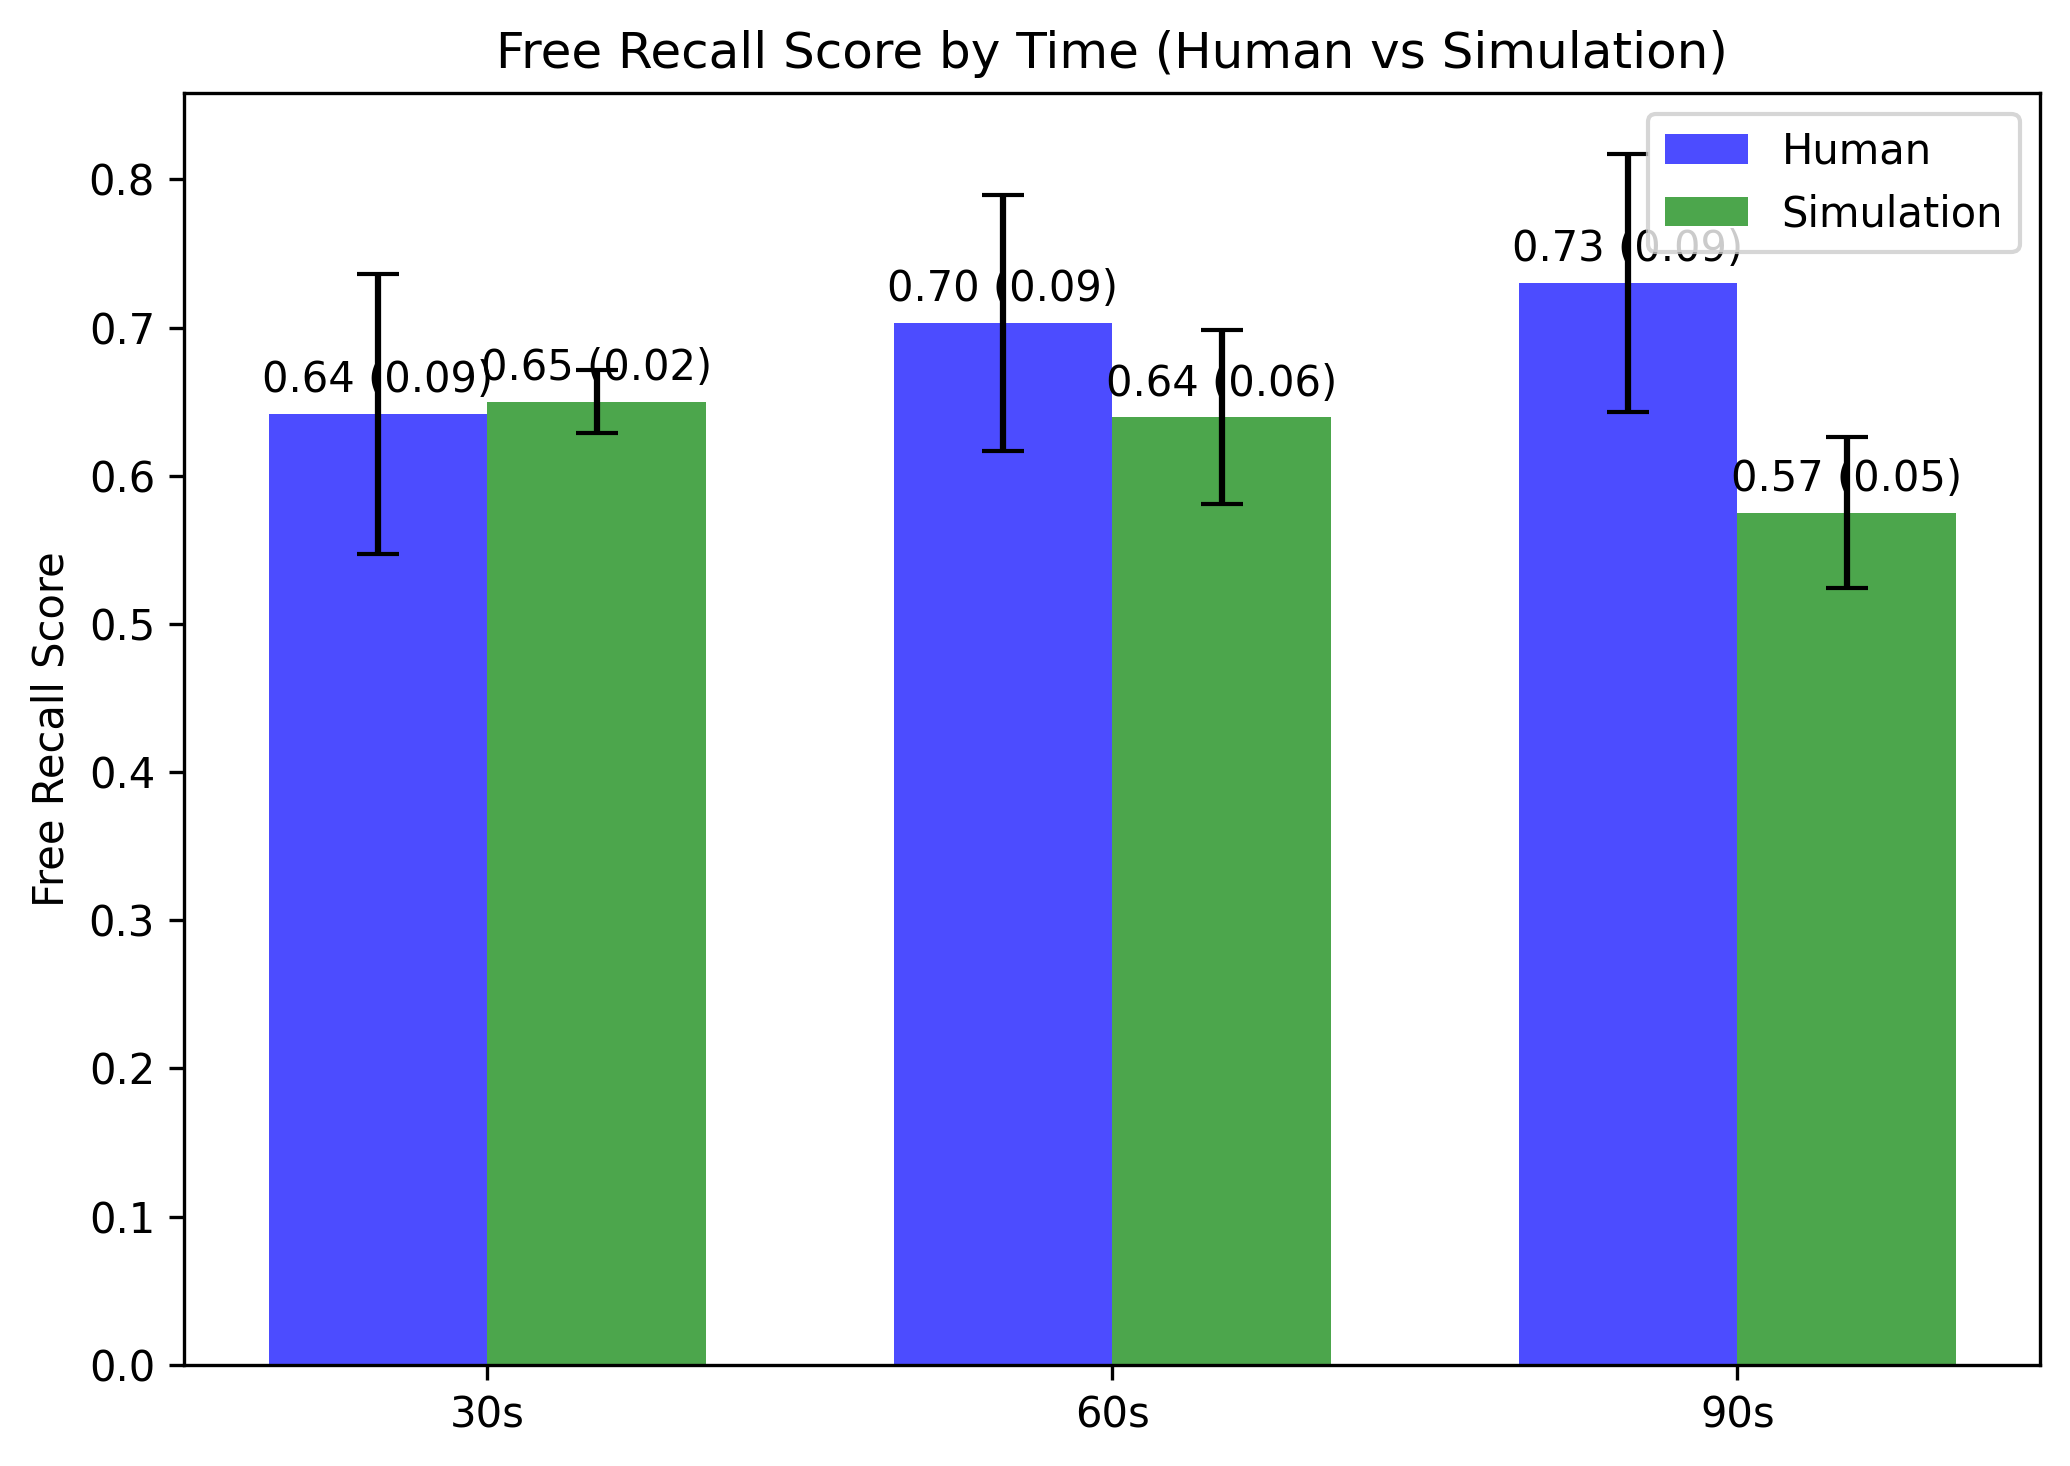
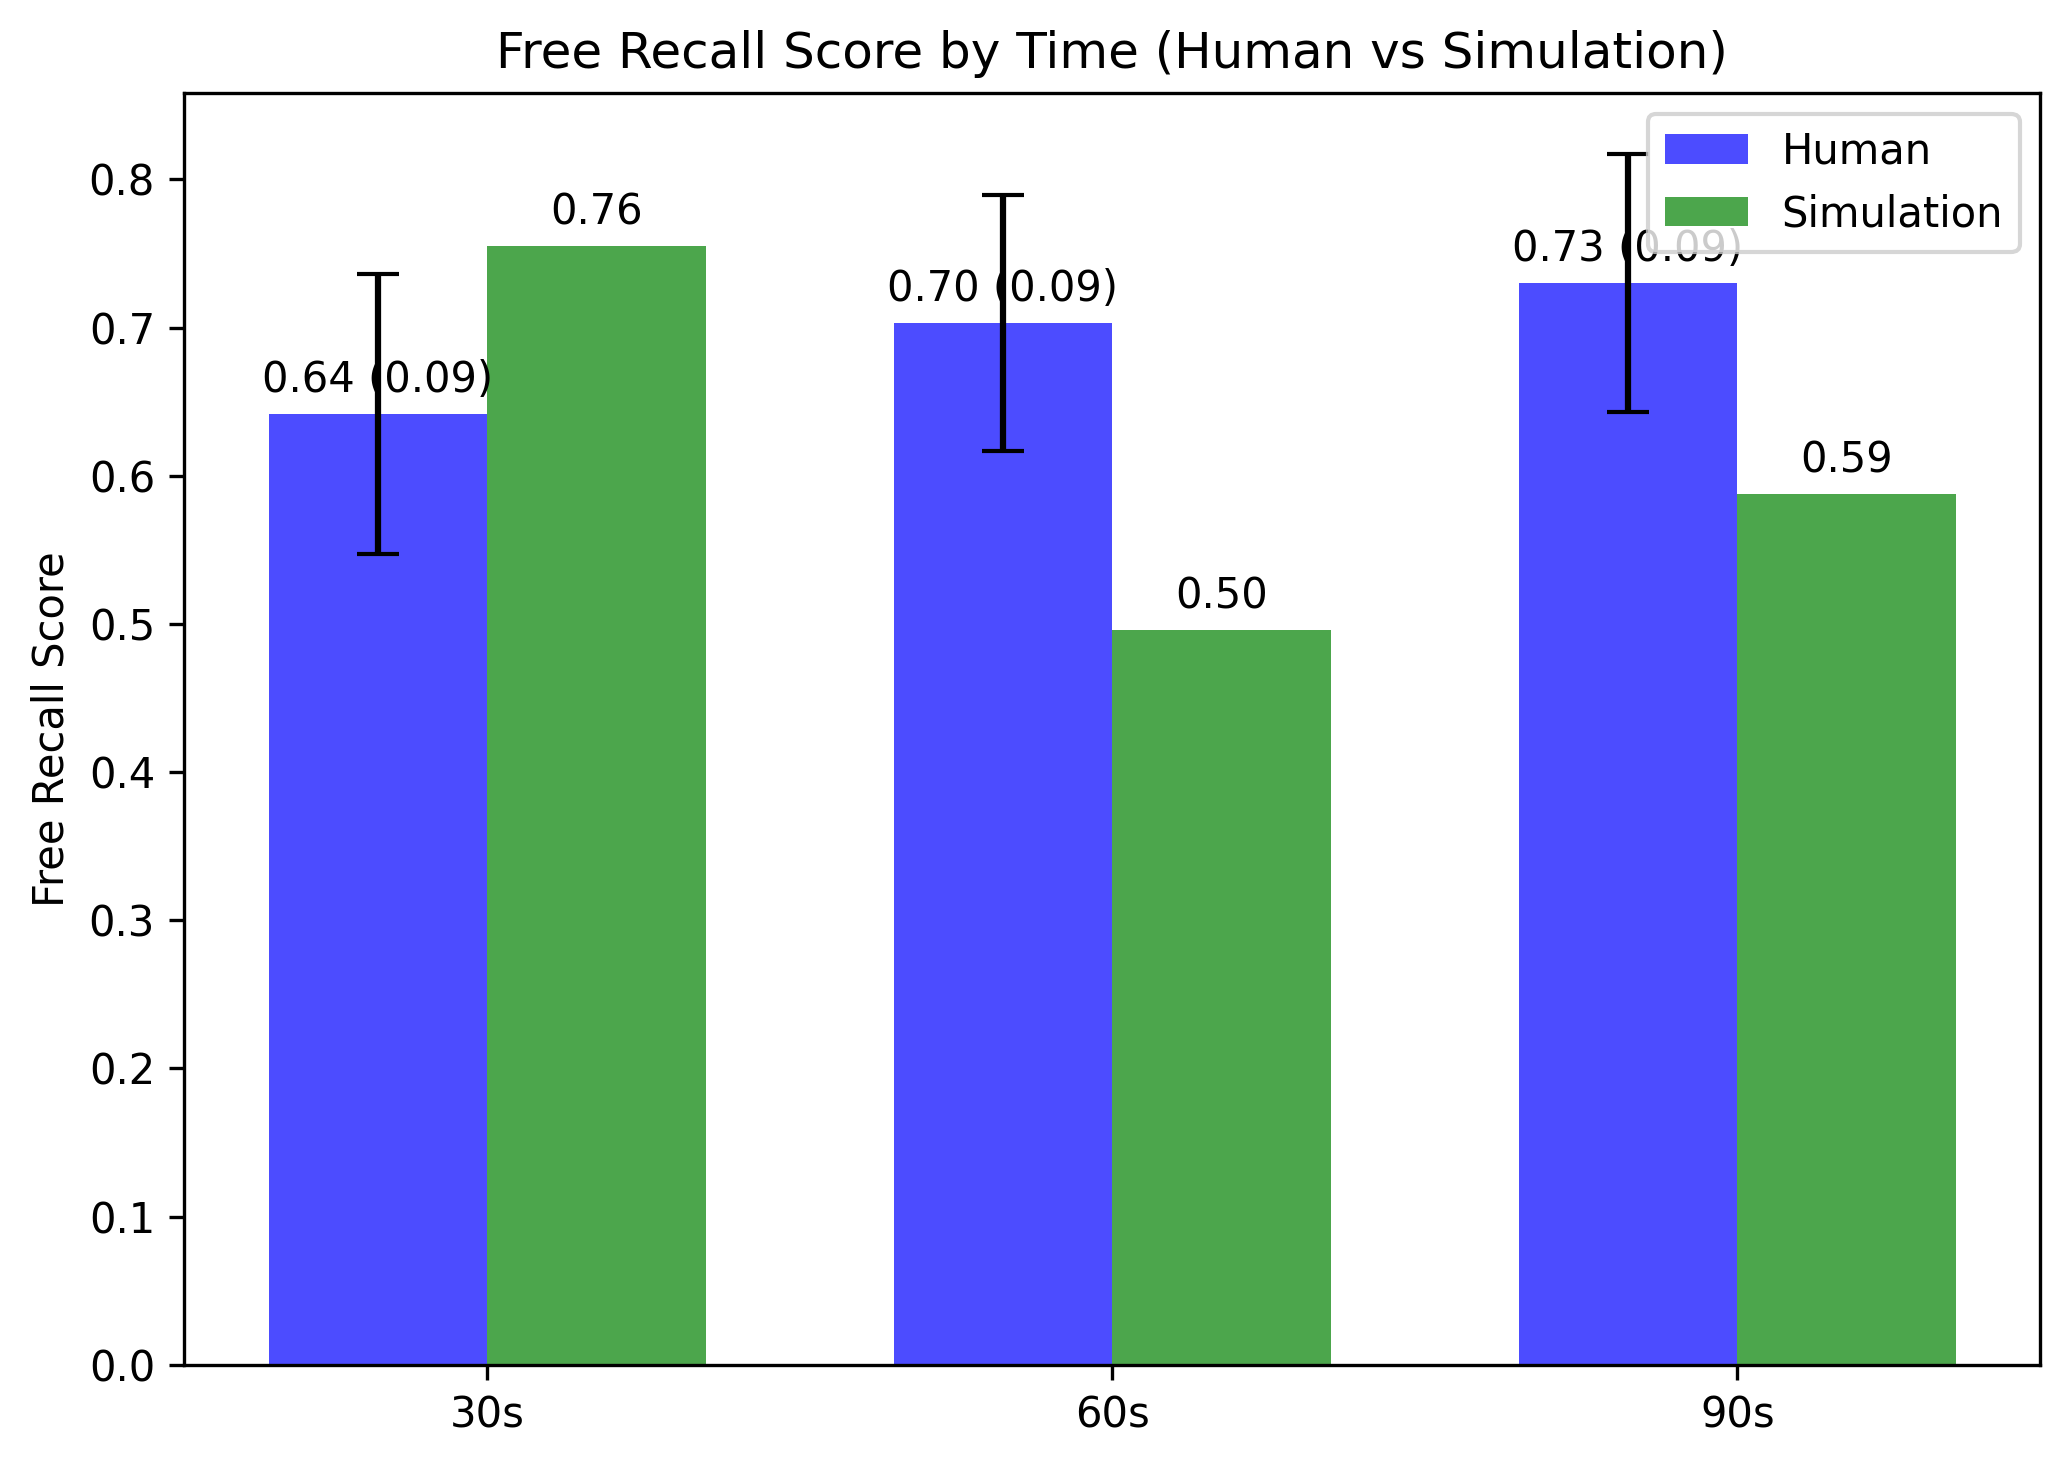
Code >> Set an mode where I disabled the ci_schema_integartion. To see whether the poor performance was due to there; but now I find no. Even we leave all the propositions, the trend still sucks: agent's performance in terms of trends gets worse. But some overall values are higher. Hypothesis: re-pa

Changed region(s): [[0.5256, 0.2149, 0.6493, 0.4297], [0.2164, 0.1228, 0.3401, 0.307], [0.8348, 0.2763, 0.9585, 0.3683]]

diff --git a/step5/simulators/simulator_v20250604/results/analyze_aggregated_results/offline_text_comprehension_runner/ci_schema_pipeline.py b/step5/simulators/simulator_v20250604/results/analyze_aggregated_results/offline_text_comprehension_runner/ci_schema_pipeline.py
@@ -401,7 +401,8 @@ def process_episode(ep: Dict,
                     episode_tag: str = "",
                     log_every: int = 1,
                     ltm_store: Optional[LTMStore] = None,
-                    p_store: float = 0.35) -> List[CycleOutput]:
+                    p_store: float = 0.35,
+                    mode: str = "ci_schema") -> List[CycleOutput]:
 
     if schema is None:
         schema = Schema()
@@ -431,8 +432,16 @@ def process_episode(ep: Dict,
         strength = apply_visit_gain(visit_counter[sent_id])
 
         # 3) schema update + 4) macroselection (WM/gist of this cycle)
-        schema.update_from_props(props, strength=strength)
-        wm_props, keep_scores = macroselect_gist(props, schema, buffer_size=wm_buffer)
+        if mode == "none":
+            # --- BYPASS: no schema learning, no macroselection, no CI coherence ---
+            wm_props = props[:]  # keep EVERYTHING in WM/gist for this cycle
+            keep_scores = {p.signature(): 0.0 for p in wm_props}  # default zeros
+        else:
+            # --- Original CI+Schema path ---
+            schema.update_from_props(props, strength=strength)
+            wm_props, keep_scores = macroselect_gist(props, schema, buffer_size=wm_buffer)
+        # schema.update_from_props(props, strength=strength)
+        # wm_props, keep_scores = macroselect_gist(props, schema, buffer_size=wm_buffer)
 
         # WM dynamics vs previous cycle
         wm_now = [p.signature() for p in wm_props]
@@ -442,8 +451,11 @@ def process_episode(ep: Dict,
         wm_dropped = sorted(list(set_prev - set_now))
 
         # 5) local CI integration (optional coherence boost)
-        net = build_network(props)
-        integrate(net)
+        # net = build_network(props)
+        # integrate(net)
+        if mode == "ci_schema":
+            net = build_network(props)
+            integrate(net)
 
         # 6) LTM update (per-prop)
         ltm_updates = ltm_store.update(selected=wm_now, step=k, strength=strength, relevance_map=keep_scores)
@@ -505,7 +517,8 @@ def run_pipeline(json_path: str,
                  log_every: int = 1,
                  verbose: str = "INFO",
                  p_store: float = 0.35,
-                 allow_reparse: bool = False) -> Dict:
+                 allow_reparse: bool = False,
+                 mode: str = "ci_schema") -> Dict:
     """Run CI+Schema over episodes with rich logging, WM/LTM tracking.
 
     Args:
@@ -545,7 +558,7 @@ def run_pipeline(json_path: str,
 
         cycles = process_episode(ep, parser, schema=schema, wm_buffer=wm_buffer,
                                  logger=logger, episode_tag=tag, log_every=log_every,
-                                 ltm_store=ltm_store, p_store=p_store)
+                                 ltm_store=ltm_store, p_store=p_store, mode=mode)
 
         # per-cycle details (backward compatible shape + new fields)
         results[key] = [asdict(c) for c in cycles]

diff --git a/step5/simulators/simulator_v20250604/results/analyze_aggregated_results/offline_text_comprehension_runner/main.py b/step5/simulators/simulator_v20250604/results/analyze_aggregated_results/offline_text_comprehension_runner/main.py
@@ -14,6 +14,7 @@ if __name__ == "__main__":
     ap.add_argument("--wm_buffer", type=int, default=5)
     ap.add_argument("--log_every", type=int, default=1)
     ap.add_argument("--allow_reparse", type=bool, default=True)
+    ap.add_argument("--mode", default="ci_schema", choices=["ci_schema", "none"], help="Integration mode: 'ci_schema' for handcrafted CI+schema; 'none' to bypass and store all props")
     ap.add_argument("--verbose", default="INFO", choices=["DEBUG","INFO","WARNING","ERROR"])
     args = ap.parse_args()
 
@@ -31,7 +32,8 @@ if __name__ == "__main__":
         # llm_role="You are a reader with no prior knowledge about the reading content.",
         verbose=args.verbose,
         p_store=0.35,       # per-cycle consolidation prob for recall proxy
-        allow_reparse=True
+        allow_reparse=True,
+        mode=args.mode,
     )
 
     # write outputs to a compact JSON for analysis/plots

diff --git a/step5/simulators/simulator_v20250604/results/analyze_aggregated_results/offline_text_comprehension_runner/README.md b/step5/simulators/simulator_v20250604/results/analyze_aggregated_results/offline_text_comprehension_runner/README.md
@@ -225,9 +225,14 @@ WM=5 [ret 3, +2, -2] | LTM+=5 (top: skip(readers, words), install(stations, new)
 
 3) **Run**  
    - Minimal Python script (see code above), or use your CLI runner with flags. Note that `--episodes` number determines how many trials to cover. Set `1` for a smoking check.
+   - CI schema integration on:
      ```bash
-     python main.py --episodes 1 --log_every 1 --verbose DEBUG
+     python main.py --episodes 1 --log_every 1 --mode ci_schema --verbose DEBUG
      ```
+    - CI schema integration off (for testing and comparisons):
+      ```bash
+      python main.py --episodes 1 --log_every 1 --mode none --verbose DEBUG
+      ```
 
 4) **Inspect results**  
    - Open the generated JSON; check `wm_*` fields and `ltm_updates` for each step.  
